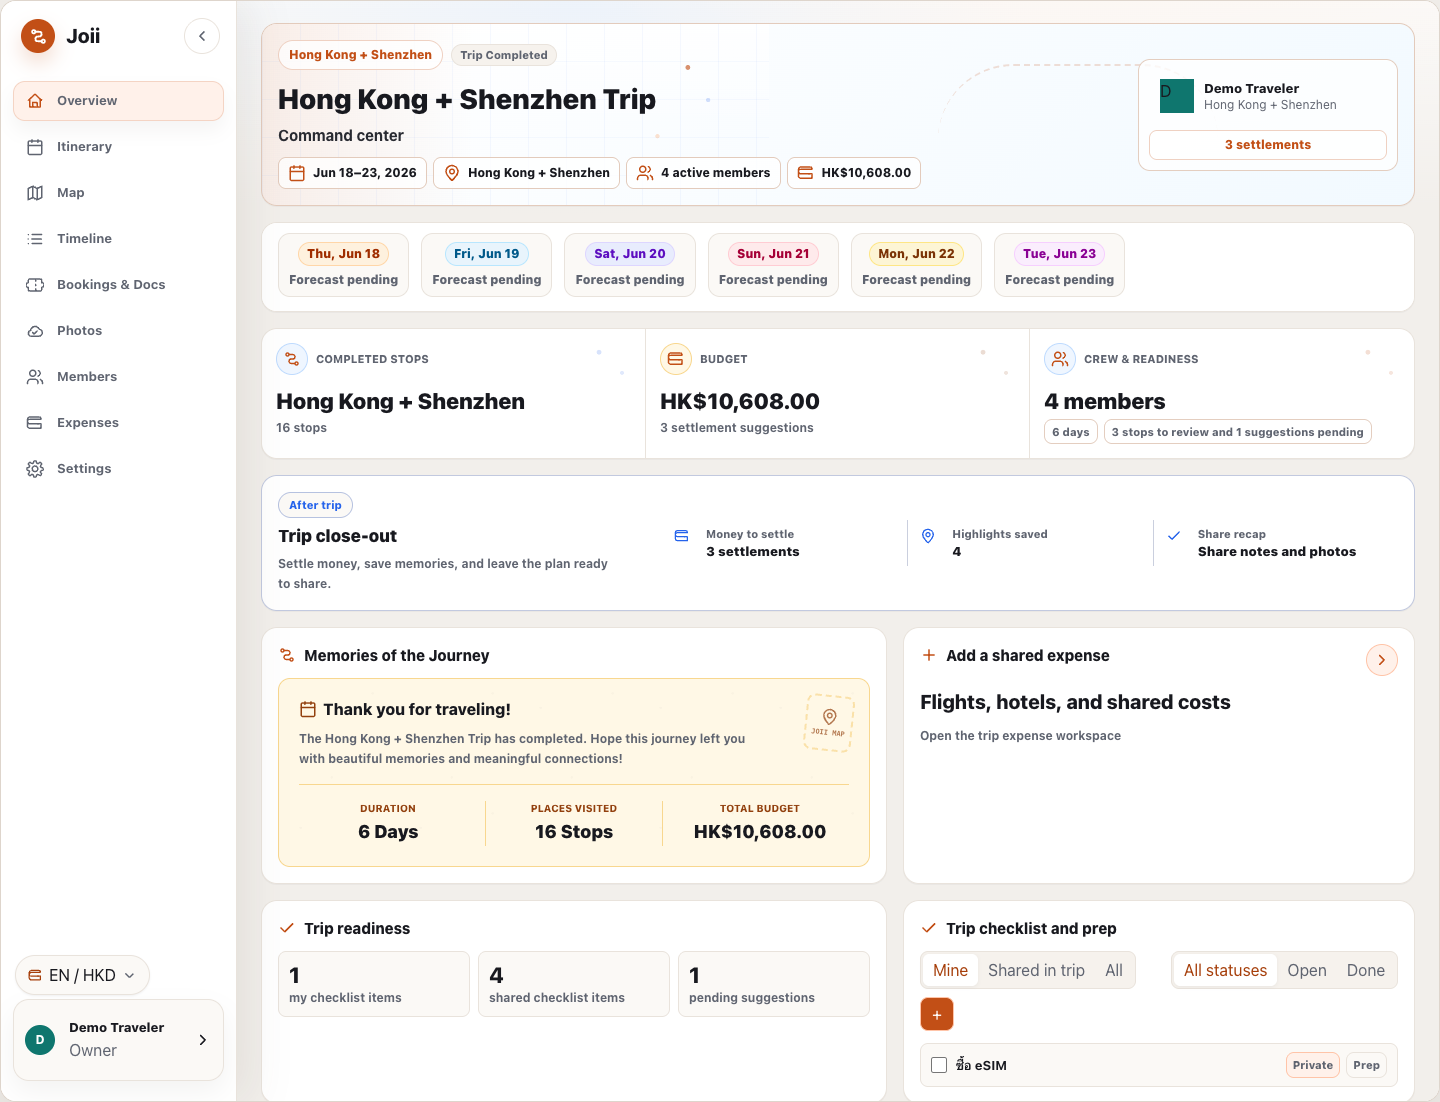
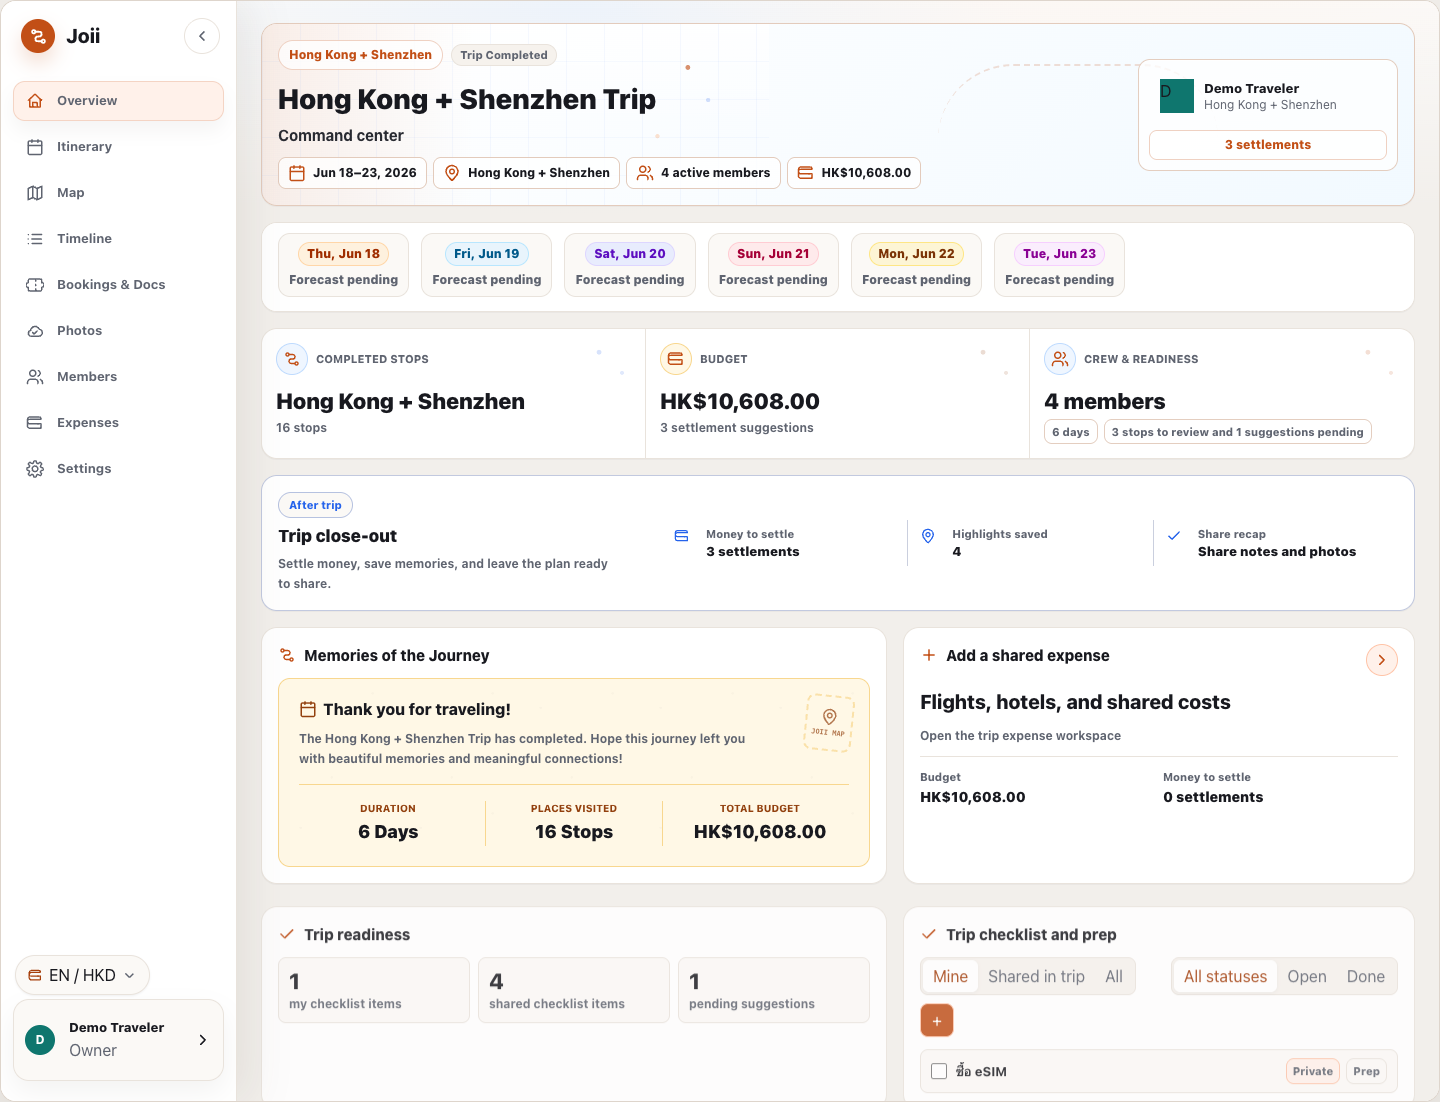
polish overview mobile command layout

diff --git a/frontend/src/features/itinerary/components/overview/ManagerAdminFollowupPanel.tsx b/frontend/src/features/itinerary/components/overview/ManagerAdminFollowupPanel.tsx
@@ -1,0 +1,68 @@
+import type { TripTask } from "@/src/trip/types";
+import { Icon } from "@/src/ui/icons";
+import { OverviewPanelTitle } from "./OverviewPanelTitle";
+import {
+  overviewAdminFollowupClassName,
+  overviewAdminFollowupMetricClassName,
+  overviewAdminFollowupTaskClassName,
+  overviewTaskAddButtonClassName,
+} from "./overview-page.styles";
+
+interface ManagerAdminFollowupPanelProps {
+  addChecklistLabel: string;
+  ariaLabel: string;
+  myChecklistLabel: string;
+  myOpenTasks: number;
+  onAddTask: () => void;
+  onToggleTask: (task: TripTask) => void;
+  pendingSuggestions: number;
+  pendingSuggestionsLabel: string;
+  sharedChecklistLabel: string;
+  sharedOpenTasks: number;
+  task?: TripTask;
+  title: string;
+}
+
+export function ManagerAdminFollowupPanel({
+  addChecklistLabel,
+  ariaLabel,
+  myChecklistLabel,
+  myOpenTasks,
+  onAddTask,
+  onToggleTask,
+  pendingSuggestions,
+  pendingSuggestionsLabel,
+  sharedChecklistLabel,
+  sharedOpenTasks,
+  task,
+  title,
+}: ManagerAdminFollowupPanelProps) {
+  return (
+    <section className={overviewAdminFollowupClassName} aria-label={ariaLabel}>
+      <div className="flex min-w-0 items-center justify-between gap-3">
+        <OverviewPanelTitle icon="check" title={title} />
+        <button
+          className={overviewTaskAddButtonClassName}
+          type="button"
+          aria-label={addChecklistLabel}
+          title={addChecklistLabel}
+          onClick={onAddTask}
+        >
+          <span aria-hidden="true">+</span>
+        </button>
+      </div>
+      <div className={overviewAdminFollowupMetricClassName}>
+        <span><strong>{myOpenTasks}</strong> {myChecklistLabel}</span>
+        <span><strong>{sharedOpenTasks}</strong> {sharedChecklistLabel}</span>
+        <span><strong>{pendingSuggestions}</strong> {pendingSuggestionsLabel}</span>
+      </div>
+      {task ? (
+        <label className={overviewAdminFollowupTaskClassName}>
+          <input type="checkbox" checked={task.status === "done"} onChange={() => onToggleTask(task)} />
+          <span>{task.title}</span>
+          <Icon name="chevronRight" className="size-4 text-(--color-text-muted)" />
+        </label>
+      ) : null}
+    </section>
+  );
+}

diff --git a/frontend/src/features/itinerary/components/overview/ManagerOverviewPanels.tsx b/frontend/src/features/itinerary/components/overview/ManagerOverviewPanels.tsx
@@ -1,5 +1,6 @@
 import { useI18n } from "@/src/i18n/I18nProvider";
 import { ManagerReadinessPanel } from "./ManagerReadinessPanel";
+import { ManagerAdminFollowupPanel } from "./ManagerAdminFollowupPanel";
 import { ManagerTaskChecklistPanel } from "./ManagerTaskChecklistPanel";
 import { OverviewExpenseShortcut } from "./OverviewExpenseShortcut";
 import { OverviewFocusSection } from "./OverviewFocusSection";
@@ -10,6 +11,7 @@ export function ManagerOverviewPanels({
   locale,
   items,
   groupSpendLabel,
+  expenseSettlementSuggestionsLabel,
   nextStop,
   nextDayItems,
   focusTodayHeading,
@@ -70,6 +72,22 @@ export function ManagerOverviewPanels({
       tripLabel={t.overview.filters.trip}
     />
   );
+  const mobileAdminFollowupPanel = (
+    <ManagerAdminFollowupPanel
+      addChecklistLabel={t.overview.headings.addChecklist}
+      ariaLabel="Mobile overview admin follow-up"
+      myChecklistLabel={t.overview.readiness.myChecklist}
+      myOpenTasks={myOpenTasks}
+      onAddTask={openTaskDialog}
+      onToggleTask={onToggleTask}
+      pendingSuggestions={pendingSuggestions}
+      pendingSuggestionsLabel={t.overview.readiness.pendingSuggestions}
+      sharedChecklistLabel={t.overview.readiness.sharedChecklist}
+      sharedOpenTasks={sharedOpenTasks}
+      task={visibleTasks[0]}
+      title={t.overview.headings.tripChecklist}
+    />
+  );
   const focusPanel = (
     <OverviewFocusSection
       ariaLabel={t.overview.sections.todayFocus}
@@ -93,6 +111,13 @@ export function ManagerOverviewPanels({
       title={t.overview.generalExpense}
       value={t.overview.money.generalExamples}
       detail={t.overview.money.generalDetail}
+      facts={[
+        { label: t.overview.cockpit.budget, value: groupSpendLabel },
+        {
+          label: t.overview.phase.completed.facts.settlements,
+          value: expenseSettlementSuggestionsLabel ?? t.overview.money.settlementsCount({ count: 0 }),
+        },
+      ]}
       ariaLabel={t.overview.generalExpense}
       onClick={openExpenses}
     />
@@ -103,8 +128,9 @@ export function ManagerOverviewPanels({
       <>
         {focusPanel}
         {expensePanel}
-        {readinessPanel}
-        {checklistPanel}
+        {mobileAdminFollowupPanel}
+        <div className="contents max-[767px]:hidden">{readinessPanel}</div>
+        <div className="contents max-[767px]:hidden">{checklistPanel}</div>
       </>
     );
   }

diff --git a/frontend/src/features/itinerary/components/overview/OverviewExpenseShortcut.tsx b/frontend/src/features/itinerary/components/overview/OverviewExpenseShortcut.tsx
@@ -1,12 +1,22 @@
 import { OverviewPanelTitle } from "./OverviewPanelTitle";
-import { overviewPanelButtonClassName, overviewPanelClassName } from "./overview-page.styles";
+import {
+  overviewExpenseFactsClassName,
+  overviewPanelButtonClassName,
+  overviewPanelClassName,
+} from "./overview-page.styles";
 import { Icon } from "@/src/ui/icons";
+
+interface ExpenseShortcutFact {
+  label: string;
+  value: string;
+}
 
 interface OverviewExpenseShortcutProps {
   icon: "wallet" | "plus";
   title: string;
   value: React.ReactNode;
   detail: string;
+  facts?: ExpenseShortcutFact[];
   onClick: () => void;
   ariaLabel?: string;
   titleId?: string;
@@ -17,6 +27,7 @@ export function OverviewExpenseShortcut({
   title,
   value,
   detail,
+  facts,
   onClick,
   ariaLabel,
   titleId,
@@ -36,6 +47,16 @@ export function OverviewExpenseShortcut({
       </div>
       <strong className="max-w-[24ch]">{value}</strong>
       <span className="max-w-[32ch]">{detail}</span>
+      {facts?.length ? (
+        <div className={overviewExpenseFactsClassName}>
+          {facts.map((fact) => (
+            <span key={fact.label}>
+              <small>{fact.label}</small>
+              <strong>{fact.value}</strong>
+            </span>
+          ))}
+        </div>
+      ) : null}
     </button>
   );
 }

diff --git a/frontend/src/features/itinerary/components/overview/overview-page.styles.ts b/frontend/src/features/itinerary/components/overview/overview-page.styles.ts
@@ -8,7 +8,7 @@ export const overviewSummaryBentoClassName =
 export const overviewWeatherBentoClassName =
   "overview-weather-bento col-span-12 min-w-0 overflow-hidden rounded-(--radius-lg) border border-(--color-border) bg-(--color-surface) shadow-[0_1px_0_rgb(15_23_42_/_0.04)] max-[1199px]:col-auto max-[1199px]:rounded-none max-[1199px]:border-x-0 max-[1199px]:shadow-none max-[767px]:rounded-(--radius-lg) max-[767px]:border max-[767px]:shadow-[0_1px_0_rgb(15_23_42_/_0.04)] [&_.weather-forecast-strip]:m-0 [&_.weather-forecast-strip]:w-full [&_.weather-forecast-strip]:rounded-none [&_.weather-forecast-strip]:border-0 [&_.weather-forecast-strip]:px-4 [&_.weather-forecast-strip]:py-2.5 [&_.weather-forecast-strip]:shadow-none max-[767px]:[&_.weather-forecast-strip]:px-2.5 max-[767px]:[&_.weather-forecast-row]:grid max-[767px]:[&_.weather-forecast-row]:grid-cols-3 max-[767px]:[&_.weather-forecast-row]:gap-2 max-[767px]:[&_.weather-forecast-row]:overflow-hidden max-[767px]:[&_.weather-forecast-segment]:w-auto max-[767px]:[&_.weather-forecast-segment]:min-w-0 max-[767px]:[&_.weather-forecast-segment:nth-child(n+4)]:hidden";
 export const overviewCockpitClassName =
-  "overview-travel-cockpit col-span-12 grid w-full min-w-0 max-w-full grid-cols-3 items-stretch overflow-hidden rounded-(--radius-lg) border border-(--color-border) bg-(--color-surface) shadow-[0_1px_0_rgb(15_23_42_/_0.04)] max-[1199px]:col-auto max-[1199px]:rounded-none max-[1199px]:border-x-0 max-[1199px]:shadow-none max-[767px]:grid-cols-2 max-[767px]:rounded-(--radius-lg) max-[767px]:border max-[767px]:shadow-[0_1px_0_rgb(15_23_42_/_0.04)] max-[767px]:[&_.overview-cockpit-card:nth-child(3)]:col-span-full";
+  "overview-travel-cockpit col-span-12 grid w-full min-w-0 max-w-full grid-cols-3 items-stretch overflow-hidden rounded-(--radius-lg) border border-(--color-border) bg-(--color-surface) shadow-[0_1px_0_rgb(15_23_42_/_0.04)] max-[1199px]:col-auto max-[1199px]:rounded-none max-[1199px]:border-x-0 max-[1199px]:shadow-none max-[767px]:grid-cols-2 max-[767px]:rounded-(--radius-lg) max-[767px]:border max-[767px]:shadow-[0_1px_0_rgb(15_23_42_/_0.04)] max-[767px]:[&_.overview-cockpit-card:first-child]:col-span-full";
 export const overviewPhaseCardClassName =
   "overview-phase-card col-span-12 grid min-w-0 grid-cols-[minmax(220px,0.9fr)_minmax(0,1.8fr)] items-center gap-4 overflow-hidden rounded-(--radius-lg) border border-[color-mix(in_srgb,var(--overview-phase-accent)_20%,var(--color-border))] bg-(--color-surface) p-4 shadow-[0_1px_0_rgb(15_23_42_/_0.04)] [--overview-phase-accent:var(--color-primary)] [--overview-phase-wash:var(--color-surface-subtle)] max-[1199px]:col-auto max-[1199px]:grid-cols-1 max-[1199px]:rounded-none max-[1199px]:border-x-0 max-[1199px]:shadow-none max-[767px]:gap-2.5 max-[767px]:rounded-(--radius-lg) max-[767px]:border max-[767px]:p-3.5 max-[767px]:shadow-[0_1px_0_rgb(15_23_42_/_0.04)]";
 export const overviewPhaseToneClassNames = {
@@ -21,7 +21,7 @@ export const overviewPhaseHeaderClassName =
 export const overviewPhaseFactListClassName =
   "overview-phase-facts m-0 grid list-none grid-cols-3 gap-0 p-0 max-[767px]:grid-cols-1 [&_li]:grid [&_li]:grid-cols-[24px_minmax(0,1fr)] [&_li]:items-start [&_li]:gap-2 [&_li]:border-l [&_li]:border-[color-mix(in_srgb,var(--overview-phase-accent)_16%,var(--color-border))] [&_li]:px-3 [&_li]:py-1.5 [&_li:first-child]:border-l-0 max-[767px]:[&_li]:grid-cols-[18px_minmax(0,1fr)] max-[767px]:[&_li]:border-l-0 max-[767px]:[&_li]:border-t max-[767px]:[&_li:first-child]:border-t-0 max-[767px]:[&_li]:px-0 max-[767px]:[&_li]:py-2 [&_.icon]:mt-0.5 [&_.icon]:size-[16px] [&_.icon]:text-(--overview-phase-accent) max-[767px]:[&_.icon]:size-[14px] [&_small]:block [&_small]:text-[11px] [&_small]:font-extrabold [&_small]:leading-4 [&_small]:text-(--color-text-muted) [&_strong]:block [&_strong]:min-w-0 [&_strong]:text-[13px] [&_strong]:font-black [&_strong]:leading-[18px] [&_strong]:text-(--color-text) [&_strong]:[overflow-wrap:anywhere]";
 export const overviewReadinessChipsClassName =
-  "overview-readiness-chips flex min-w-0 flex-wrap gap-1.5 [&_span]:min-w-0 [&_span]:rounded-(--radius-sm) [&_span]:border [&_span]:border-[color-mix(in_srgb,var(--color-primary)_14%,var(--color-border))] [&_span]:bg-[rgb(255_255_255_/_0.68)] [&_span]:px-[7px] [&_span]:py-1 [&_span]:text-[11px] [&_span]:font-extrabold [&_span]:leading-[15px] [&_span]:text-(--color-text-muted)";
+  "overview-readiness-chips flex min-w-0 flex-wrap gap-1.5 max-[767px]:gap-0 [&_span]:min-w-0 [&_span]:rounded-(--radius-sm) [&_span]:border [&_span]:border-[color-mix(in_srgb,var(--color-primary)_14%,var(--color-border))] [&_span]:bg-[rgb(255_255_255_/_0.68)] [&_span]:px-[7px] [&_span]:py-1 [&_span]:text-[11px] [&_span]:font-extrabold [&_span]:leading-[15px] [&_span]:text-(--color-text-muted) max-[767px]:[&_span:nth-child(n+2)]:hidden";
 
 export const modalBackdropClassName =
   "modal-backdrop fixed inset-0 z-20 grid place-items-center bg-[rgb(15_23_42_/_0.28)] p-5 max-[767px]:items-end max-[767px]:p-2.5";
@@ -37,13 +37,15 @@ export const taskDialogActionsClassName =
   "dialog-actions flex justify-end gap-2.5 border-t border-(--color-border) bg-(--color-surface-subtle) px-5 pb-[18px] pt-3.5 max-[767px]:grid [&_.button]:min-h-[38px] [&_.button]:min-w-[104px] [&_.button]:w-auto";
 
 export const overviewGridClassName =
-  "overview-grid m-0 grid w-full min-w-0 max-w-full grid-cols-[minmax(0,1.1fr)_minmax(320px,0.9fr)] gap-4 overflow-hidden max-[1199px]:grid-cols-1 max-[1199px]:gap-0 max-[767px]:gap-2 max-[767px]:overflow-visible";
+  "overview-grid m-0 grid w-full min-w-0 max-w-full grid-cols-[minmax(0,1.1fr)_minmax(320px,0.9fr)] gap-4 overflow-hidden max-[1199px]:grid-cols-1 max-[1199px]:gap-0 max-[767px]:gap-2 max-[767px]:overflow-visible max-[767px]:[&_.overview-panel--button]:order-first";
 export const overviewPanelClassName =
   `overview-panel grid min-h-36 min-w-0 max-w-full content-start gap-3 overflow-hidden rounded-(--radius-lg) border border-(--color-border) bg-(--color-surface) p-4 shadow-[0_1px_0_rgb(15_23_42_/_0.04)] ${workspaceResponsivePanelResetClassName} max-[767px]:min-h-0 max-[767px]:gap-2 max-[767px]:rounded-(--radius-lg) max-[767px]:border max-[767px]:border-(--color-border) max-[767px]:bg-(--color-surface) max-[767px]:p-3 max-[767px]:shadow-[0_1px_0_rgb(15_23_42_/_0.04)] [&>span]:text-xs [&>span]:font-bold [&>span]:text-(--color-text-muted) [&>strong]:text-xl [&>strong]:font-extrabold [&>strong]:leading-7 [&>strong]:text-(--color-text)`;
 export const overviewPanelWideClassName = "overview-panel--wide col-start-1 max-[1199px]:col-auto";
 export const overviewPanelHealthClassName = "overview-panel--health min-h-[132px]";
 export const overviewPanelButtonClassName =
   "overview-panel--button w-full cursor-pointer text-left text-inherit transition-[border-color,box-shadow,transform,background] duration-150 hover:-translate-y-px hover:border-(--color-primary) hover:bg-(--color-primary-soft) hover:shadow-[0_8px_18px_rgb(15_23_42_/_0.08)] focus-visible:-translate-y-px focus-visible:border-(--color-primary) focus-visible:shadow-[0_0_0_3px_rgb(15_118_110_/_0.16)] focus-visible:outline-none";
+export const overviewExpenseFactsClassName =
+  "overview-expense-facts mt-auto grid grid-cols-2 gap-2 border-t border-(--color-border) pt-3 max-[767px]:hidden [&_span]:grid [&_span]:gap-0.5 [&_small]:text-[11px] [&_small]:font-extrabold [&_small]:leading-4 [&_small]:text-(--color-text-muted) [&_strong]:min-w-0 [&_strong]:text-sm [&_strong]:font-black [&_strong]:leading-5 [&_strong]:text-(--color-text) [&_strong]:[overflow-wrap:anywhere]";
 export const overviewTaskPanelClassName =
   "overview-task-panel col-start-2 row-[1/span_2] min-h-0 self-start border-(--color-primary-border) max-[1199px]:col-auto max-[1199px]:row-auto";
 export const overviewPanelTitleClassName =
@@ -55,6 +57,12 @@ export const overviewTaskFiltersClassName = "overview-task-filters";
 export const overviewTaskFilterActiveClassName = "overview-task-filter--active";
 export const overviewTaskAddButtonClassName =
   "overview-task-add-button inline-flex min-h-[34px] w-[34px] flex-none items-center justify-center rounded-(--radius-sm) border border-(--color-primary-border) bg-(--color-primary) p-0 text-xl font-extrabold leading-none text-white transition-[background,border-color,box-shadow,transform] duration-200 hover:border-(--color-primary) hover:bg-(--color-primary-strong) hover:shadow-[0_8px_18px_rgb(194_79_22_/_0.18)] active:translate-y-px focus-visible:outline focus-visible:outline-3 focus-visible:outline-offset-2 focus-visible:outline-[rgb(191_219_254_/_0.72)]";
+export const overviewAdminFollowupClassName =
+  `${overviewPanelClassName} overview-admin-followup hidden max-[767px]:grid`;
+export const overviewAdminFollowupMetricClassName =
+  "overview-admin-followup-metrics grid grid-cols-3 gap-1.5 [&_span]:grid [&_span]:min-h-[46px] [&_span]:rounded-(--radius-sm) [&_span]:border [&_span]:border-(--color-border) [&_span]:bg-(--color-surface-subtle) [&_span]:p-2 [&_span]:text-[10px] [&_span]:font-bold [&_span]:leading-[13px] [&_span]:text-(--color-text-muted) [&_strong]:text-lg [&_strong]:font-black [&_strong]:leading-5 [&_strong]:text-(--color-text)";
+export const overviewAdminFollowupTaskClassName =
+  "overview-admin-followup-task grid min-h-11 cursor-pointer grid-cols-[auto_minmax(0,1fr)_auto] items-center gap-2.5 rounded-(--radius-sm) border border-(--color-border) bg-(--color-surface-subtle) px-2.5 py-2 text-[13px] font-bold text-(--color-text) [&_input]:size-4 [&_input]:accent-[var(--color-primary)] [&_span]:min-w-0 [&_span]:overflow-hidden [&_span]:text-ellipsis [&_span]:whitespace-nowrap";
 export const personalTaskFormClassName =
   "overview-task-form overview-task-form--personal grid grid-cols-[minmax(140px,1fr)_auto] items-end gap-2 [&_button]:min-h-[34px] [&_button]:rounded-(--radius-sm) [&_button]:border [&_button]:border-(--color-primary-border) [&_button]:bg-(--color-primary) [&_button]:px-3 [&_button]:text-xs [&_button]:font-extrabold [&_button]:text-white [&_button:disabled]:border-(--color-border) [&_button:disabled]:bg-(--color-surface-muted) [&_button:disabled]:text-(--color-text-subtle) [&_input]:min-h-[34px] [&_input]:w-full [&_input]:rounded-(--radius-sm) [&_input]:border [&_input]:border-(--color-border) [&_input]:bg-(--color-surface) [&_input]:px-2.5 [&_input]:text-xs [&_input]:font-bold [&_input]:text-(--color-text) [&_label]:grid [&_label]:min-w-0 [&_label]:gap-[5px] [&_label>span]:text-[11px] [&_label>span]:font-extrabold [&_label>span]:leading-[15px] [&_label>span]:text-(--color-text-muted) w-full max-[767px]:grid-cols-1 max-[767px]:[&_button]:w-full";
 

diff --git a/frontend/src/features/itinerary/components/overview/overview.styles.ts b/frontend/src/features/itinerary/components/overview/overview.styles.ts
@@ -24,7 +24,7 @@ export const overviewNextStopClassName =
   "overview-next-stop grid gap-[5px] [&_p]:m-0 [&_p]:mt-1 [&_p]:text-[13px] [&_p]:leading-5 [&_p]:text-(--color-text-muted) [&_span]:text-xs [&_span]:font-bold [&_span]:text-(--color-text-muted) [&_strong]:text-xl [&_strong]:font-extrabold [&_strong]:leading-7 [&_strong]:text-(--color-text)";
 
 export const overviewHeroBaseClassName =
-  "overview-hero relative col-span-12 grid min-h-[126px] min-w-0 max-w-full grid-cols-[minmax(0,1fr)_minmax(220px,260px)] items-center gap-4 overflow-hidden rounded-(--radius-lg) border border-[color-mix(in_srgb,var(--overview-hero-accent)_16%,var(--color-border))] bg-[linear-gradient(135deg,var(--color-surface)_0%,color-mix(in_srgb,var(--overview-hero-sky)_62%,white)_100%)] p-4 shadow-[0_1px_0_rgb(15_23_42_/_0.04)] [--overview-hero-accent:var(--color-primary)] [--overview-hero-ground:#f7d9b8] [--overview-hero-horizon:#8bd3e6] [--overview-hero-ink:#18191f] [--overview-hero-sky:#eaf6ff] before:pointer-events-none before:absolute before:inset-y-0 before:right-0 before:w-[44%] before:bg-[linear-gradient(90deg,transparent,rgba(255,255,255,0.65))] max-[1199px]:col-auto max-[1199px]:mb-0 max-[1199px]:grid-cols-1 max-[1199px]:gap-2 max-[1199px]:rounded-none max-[1199px]:border-x-0 max-[1199px]:border-t-0 max-[1199px]:p-4 max-[1199px]:shadow-none max-[767px]:min-h-0 max-[767px]:rounded-(--radius-lg) max-[767px]:border max-[767px]:p-3.5 max-[767px]:shadow-[0_1px_0_rgb(15_23_42_/_0.04)] max-[767px]:before:hidden";
+  "overview-hero relative col-span-12 grid min-h-[126px] min-w-0 max-w-full grid-cols-[minmax(0,1fr)_minmax(220px,260px)] items-center gap-4 overflow-hidden rounded-(--radius-lg) border border-[color-mix(in_srgb,var(--overview-hero-accent)_16%,var(--color-border))] bg-[linear-gradient(135deg,var(--color-surface)_0%,color-mix(in_srgb,var(--overview-hero-sky)_62%,white)_100%)] p-4 shadow-[0_1px_0_rgb(15_23_42_/_0.04)] [--overview-hero-accent:var(--color-primary)] [--overview-hero-ground:#f7d9b8] [--overview-hero-horizon:#8bd3e6] [--overview-hero-ink:#18191f] [--overview-hero-sky:#eaf6ff] before:pointer-events-none before:absolute before:inset-y-0 before:right-0 before:w-[44%] before:bg-[linear-gradient(90deg,transparent,rgba(255,255,255,0.65))] max-[1199px]:col-auto max-[1199px]:mb-0 max-[1199px]:grid-cols-1 max-[1199px]:gap-2 max-[1199px]:rounded-none max-[1199px]:border-x-0 max-[1199px]:border-t-0 max-[1199px]:p-4 max-[1199px]:shadow-none max-[767px]:min-h-0 max-[767px]:gap-2 max-[767px]:rounded-(--radius-lg) max-[767px]:border max-[767px]:p-3.5 max-[767px]:shadow-[0_1px_0_rgb(15_23_42_/_0.04)] max-[767px]:before:hidden";
 
 export const overviewHeroToneClassNames: Record<DestinationTone, string> = {
   harbor: "[--overview-hero-accent:var(--color-primary)] [--overview-hero-ground:#d6f2ef] [--overview-hero-horizon:#4fb8cc] [--overview-hero-sky:#e8f8ff]",
@@ -36,20 +36,20 @@ export const overviewHeroToneClassNames: Record<DestinationTone, string> = {
 export const overviewHeroCopyClassName = "overview-hero-copy relative z-[2] grid min-w-0 max-w-[760px] content-center gap-2";
 export const overviewHeroKickerClassName = "overview-hero-kicker w-fit max-w-full overflow-hidden rounded-full border border-[color-mix(in_srgb,var(--overview-hero-accent)_26%,white)] bg-[rgb(255_255_255_/_0.78)] px-2.5 py-1.5 text-xs font-[850] leading-4 text-(--overview-hero-accent) text-ellipsis whitespace-nowrap";
 export const overviewHeroTitleClassName = "m-0 text-[28px] font-[900] leading-[34px] text-(--overview-hero-ink) max-[767px]:hidden";
-export const overviewHeroRoleClassName = "overview-hero-role m-0 max-w-[620px] text-[15px] font-bold leading-[23px] text-[color-mix(in_srgb,var(--overview-hero-ink)_78%,var(--color-text-muted))] max-[767px]:text-[13px] max-[767px]:leading-5";
-export const overviewHeroMetaClassName = "overview-hero-meta mt-0.5 flex flex-wrap gap-1.5 max-[767px]:grid max-[767px]:grid-cols-1 [&_.icon]:text-(--overview-hero-accent) [&_span]:inline-flex [&_span]:min-h-8 [&_span]:min-w-0 [&_span]:max-w-full [&_span]:items-center [&_span]:gap-[7px] [&_span]:rounded-(--radius-sm) [&_span]:border [&_span]:border-[color-mix(in_srgb,var(--overview-hero-accent)_16%,var(--color-border))] [&_span]:bg-[rgb(255_255_255_/_0.78)] [&_span]:px-[9px] [&_span]:py-1.5 [&_span]:text-xs [&_span]:font-extrabold [&_span]:leading-4 [&_span]:text-(--color-text) max-[767px]:[&_span:nth-child(n+3)]:hidden max-[767px]:[&_span]:overflow-hidden max-[767px]:[&_span]:text-ellipsis max-[767px]:[&_span]:whitespace-nowrap";
+export const overviewHeroRoleClassName = "overview-hero-role m-0 max-w-[620px] text-[15px] font-bold leading-[23px] text-[color-mix(in_srgb,var(--overview-hero-ink)_78%,var(--color-text-muted))] max-[767px]:text-[13px] max-[767px]:leading-5 max-[767px]:hidden";
+export const overviewHeroMetaClassName = "overview-hero-meta mt-0.5 flex flex-wrap gap-1.5 max-[767px]:grid max-[767px]:grid-cols-2 max-[767px]:gap-1.5 [&_.icon]:text-(--overview-hero-accent) [&_span]:inline-flex [&_span]:min-h-8 [&_span]:min-w-0 [&_span]:max-w-full [&_span]:items-center [&_span]:gap-[7px] [&_span]:rounded-(--radius-sm) [&_span]:border [&_span]:border-[color-mix(in_srgb,var(--overview-hero-accent)_16%,var(--color-border))] [&_span]:bg-[rgb(255_255_255_/_0.78)] [&_span]:px-[9px] [&_span]:py-1.5 [&_span]:text-xs [&_span]:font-extrabold [&_span]:leading-4 [&_span]:text-(--color-text) max-[767px]:[&_span:nth-child(n+3)]:hidden max-[767px]:[&_span]:gap-1.5 max-[767px]:[&_span]:overflow-hidden max-[767px]:[&_span]:text-ellipsis max-[767px]:[&_span]:whitespace-nowrap max-[767px]:[&_span]:px-2 max-[767px]:[&_span]:text-[11px]";
 export const overviewHeroAsideClassName =
-  "overview-hero-aside relative z-[2] grid min-w-0 content-center gap-2 self-center rounded-(--radius-md) border border-[color-mix(in_srgb,var(--overview-hero-accent)_14%,var(--color-border))] bg-[rgb(255_255_255_/_0.76)] p-2.5 shadow-[inset_0_1px_0_rgb(255_255_255_/_0.78)] max-[1199px]:col-auto max-[1199px]:grid-cols-1 max-[1199px]:items-center max-[1199px]:rounded-none max-[1199px]:border-0 max-[1199px]:bg-transparent max-[1199px]:p-0 max-[1199px]:shadow-none [&_.page-current-user]:min-w-0 [&_.page-current-user]:w-full [&_.page-current-user]:border-transparent [&_.page-current-user]:bg-transparent [&_.page-current-user]:shadow-none";
+  "overview-hero-aside relative z-[2] grid min-w-0 content-center gap-2 self-center rounded-(--radius-md) border border-[color-mix(in_srgb,var(--overview-hero-accent)_14%,var(--color-border))] bg-[rgb(255_255_255_/_0.76)] p-2.5 shadow-[inset_0_1px_0_rgb(255_255_255_/_0.78)] max-[1199px]:col-auto max-[1199px]:grid-cols-1 max-[1199px]:items-center max-[1199px]:rounded-none max-[1199px]:border-0 max-[1199px]:bg-transparent max-[1199px]:p-0 max-[1199px]:shadow-none max-[767px]:gap-0 [&_.page-current-user]:min-w-0 [&_.page-current-user]:w-full [&_.page-current-user]:border-transparent [&_.page-current-user]:bg-transparent [&_.page-current-user]:shadow-none max-[767px]:[&_.page-current-user]:hidden";
 export const overviewHeroSettlementsClassName = "overview-hero-settlements justify-self-stretch rounded-(--radius-sm) border border-[color-mix(in_srgb,var(--overview-hero-accent)_26%,white)] bg-[rgb(255_255_255_/_0.82)] px-2.5 py-1.5 text-center text-xs font-[850] leading-4 text-(--overview-hero-accent)";
 
 export const cockpitCardBaseClassName =
-  `overview-cockpit-card relative grid min-h-[96px] min-w-0 content-start gap-2 overflow-hidden border-r border-(--color-border) bg-transparent p-3.5 text-left text-inherit last:border-r-0 [--overview-cockpit-accent:var(--color-primary)] [--overview-cockpit-wash:var(--color-surface-subtle)] ${workspaceResponsivePanelResetClassName} max-[767px]:min-h-[92px] max-[767px]:border-b max-[767px]:p-3 max-[767px]:[&:nth-child(2)]:border-r-0 max-[767px]:last:border-b-0 [&_small]:min-w-0 [&_small]:text-xs [&_small]:font-bold [&_small]:leading-[17px] [&_small]:text-(--color-text-muted) [&_strong]:min-w-0 [&_strong]:text-[22px] [&_strong]:font-black [&_strong]:leading-7 [&_strong]:text-(--color-text)`;
+  `overview-cockpit-card relative grid min-h-[96px] min-w-0 content-start gap-2 overflow-hidden border-r border-(--color-border) bg-transparent p-3.5 text-left text-inherit last:border-r-0 [--overview-cockpit-accent:var(--color-primary)] [--overview-cockpit-wash:var(--color-surface-subtle)] ${workspaceResponsivePanelResetClassName} max-[767px]:min-h-[86px] max-[767px]:border-b max-[767px]:p-3 max-[767px]:[&:nth-child(2)]:border-r-0 max-[767px]:last:border-b-0 [&_small]:min-w-0 [&_small]:text-xs [&_small]:font-bold [&_small]:leading-[17px] [&_small]:text-(--color-text-muted) [&_strong]:min-w-0 [&_strong]:text-[22px] [&_strong]:font-black [&_strong]:leading-7 [&_strong]:text-(--color-text)`;
 export const cockpitCardButtonClassName = "overview-cockpit-card--button cursor-pointer transition-[background,box-shadow] duration-150 hover:bg-(--overview-cockpit-wash) focus-visible:bg-(--overview-cockpit-wash) focus-visible:shadow-[inset_0_0_0_2px_color-mix(in_srgb,var(--overview-cockpit-accent)_28%,transparent)] focus-visible:outline-none";
 
 export const overviewHighlightBoardClassName =
-  `overview-highlight-board col-span-12 min-w-0 max-w-full overflow-hidden rounded-(--radius-lg) border border-(--color-border) bg-(--color-surface) p-3 shadow-[0_1px_0_rgb(15_23_42_/_0.04)] max-[1199px]:col-auto max-[1199px]:mb-0 ${workspaceResponsivePanelResetClassName} max-[767px]:rounded-(--radius-lg) max-[767px]:border max-[767px]:bg-(--color-surface) max-[767px]:shadow-[0_1px_0_rgb(15_23_42_/_0.04)]`;
+  `overview-highlight-board col-span-12 min-w-0 max-w-full overflow-hidden rounded-(--radius-lg) border border-(--color-border) bg-(--color-surface) p-3 shadow-[0_1px_0_rgb(15_23_42_/_0.04)] max-[1199px]:col-auto max-[1199px]:mb-0 ${workspaceResponsivePanelResetClassName} max-[767px]:rounded-none max-[767px]:border-0 max-[767px]:bg-transparent max-[767px]:p-0 max-[767px]:shadow-none`;
 export const overviewBoardTitleClassName =
-  "overview-board-title mb-2.5 flex items-center gap-[9px] text-(--color-text) [&_.icon]:text-(--color-primary) [&_h2]:m-0 [&_h2]:text-[15px] [&_h2]:font-black [&_h2]:leading-[22px] [&_p]:m-0 [&_p]:text-xs [&_p]:font-bold [&_p]:leading-[17px] [&_p]:text-(--color-text-muted)";
+  "overview-board-title mb-2.5 flex items-center gap-[9px] text-(--color-text) max-[767px]:mb-2 max-[767px]:px-1 [&_.icon]:text-(--color-primary) [&_h2]:m-0 [&_h2]:text-[15px] [&_h2]:font-black [&_h2]:leading-[22px] [&_p]:m-0 [&_p]:text-xs [&_p]:font-bold [&_p]:leading-[17px] [&_p]:text-(--color-text-muted)";
 export const overviewHighlightListClassName =
   "overview-highlight-list m-0 grid list-none grid-cols-[repeat(4,minmax(150px,1fr))] gap-2.5 p-0 max-[1199px]:grid-cols-3 max-[767px]:flex max-[767px]:overflow-x-auto max-[767px]:overscroll-x-contain max-[767px]:pb-3.5 max-[767px]:snap-x max-[767px]:snap-mandatory max-[767px]:-mx-3 max-[767px]:px-3 [&::-webkit-scrollbar]:hidden";
 export const overviewHighlightItemClassName =

diff --git a/frontend/src/features/itinerary/components/overview/OverviewHighlightBoard.tsx b/frontend/src/features/itinerary/components/overview/OverviewHighlightBoard.tsx
@@ -54,7 +54,7 @@ export function HighlightBoard({
                 className={cn(
                   overviewHighlightItemClassName,
                   !imgUrl && overviewHighlightToneClassNames[highlightTone(item, index)],
-                  imgUrl && "border-(--color-border-strong) bg-(--color-text)",
+                  imgUrl && "border-(--color-border-strong) bg-(--color-text) [&_small]:!text-white/84 [&_span]:!text-white/86 [&_strong]:!text-white",
                   "group cursor-pointer transition-[border-color,box-shadow,transform] duration-150 hover:-translate-y-0.5 hover:border-(--color-primary-border)",
                 )}
                 key={item.id}
@@ -66,20 +66,20 @@ export function HighlightBoard({
                       alt={item.activity}
                       fill
                       sizes="(max-width: 767px) 240px, 25vw"
-                      className="absolute inset-0 w-full h-full object-cover opacity-78 transition-transform duration-500 group-hover:scale-105"
+                      className="absolute inset-0 h-full w-full object-cover opacity-78 transition-transform duration-500 group-hover:scale-105 max-[767px]:opacity-70"
                       priority={index === 0}
                       loading={index === 0 ? "eager" : undefined}
                     />
-                    <div className="absolute inset-0 z-[1] bg-[linear-gradient(180deg,rgb(15_23_42_/_0.04),rgb(15_23_42_/_0.72))]" />
+                    <div className="absolute inset-0 z-[1] bg-[linear-gradient(180deg,rgb(15_23_42_/_0.04),rgb(15_23_42_/_0.72))] max-[767px]:bg-[linear-gradient(180deg,rgb(15_23_42_/_0.06),rgb(15_23_42_/_0.36)_38%,rgb(15_23_42_/_0.88))]" />
                   </>
                 )}
-                <span className={cn("relative z-10 mb-1 text-[11px] font-bold uppercase tracking-normal", imgUrl ? "text-white/82" : "text-(--overview-highlight-accent)")}>
+                <span className={cn("relative z-10 mb-1 text-[11px] font-bold uppercase tracking-normal", imgUrl ? "text-white/86 [text-shadow:0_1px_2px_rgb(0_0_0_/_0.5)]" : "text-(--overview-highlight-accent)")}>
                   {formatOverviewStopSchedule(item, startDate, locale)}
                 </span>
-                <strong className={cn("relative z-10 mb-0.5 text-sm font-black leading-snug [overflow-wrap:anywhere]", imgUrl ? "text-white" : "text-(--color-text)")}>
+                <strong className={cn("relative z-10 mb-0.5 text-sm font-black leading-snug [overflow-wrap:anywhere]", imgUrl ? "text-white [text-shadow:0_1px_3px_rgb(0_0_0_/_0.6)]" : "text-(--color-text)")}>
                   {item.activity}
                 </strong>
-                <small className={cn("relative z-10 overflow-hidden text-ellipsis whitespace-nowrap text-[11px] font-bold", imgUrl ? "text-white/78" : "text-(--color-text-muted)")}>
+                <small className={cn("relative z-10 overflow-hidden text-ellipsis whitespace-nowrap text-[11px] font-bold", imgUrl ? "text-white/84 [text-shadow:0_1px_2px_rgb(0_0_0_/_0.5)]" : "text-(--color-text-muted)")}>
                   {item.place}
                 </small>
               </li>

diff --git a/frontend/src/shared/components/weather/WeatherForecastStrip.tsx b/frontend/src/shared/components/weather/WeatherForecastStrip.tsx
@@ -48,6 +48,10 @@ export function WeatherForecastStrip({ briefings, locale, selectedDate, onSelect
           const low = weather?.temperatureMinCelsius;
           const dayLabel = formatWeatherStripDayLabel(briefing.date, locale);
           const condition = weatherGraphicLabel(weather?.conditionCode);
+          const compactCondition =
+            condition === "Forecast pending"
+              ? locale === "th" ? "รอพยากรณ์" : "Pending"
+              : condition;
           const hasForecastTemps = typeof high === "number" && typeof low === "number";
           const hasWeatherIcon = Boolean(weather?.conditionCode && weather.conditionCode !== "unavailable");
           const temperatureLabel = hasForecastTemps ? `${formatWeatherTemp(high)} ${formatWeatherTemp(low)}` : "";
@@ -74,7 +78,12 @@ export function WeatherForecastStrip({ briefings, locale, selectedDate, onSelect
                   <span className={tempHighClassName}>{formatWeatherTemp(high)}</span>
                   <span className={tempLowClassName}>{formatWeatherTemp(low)}</span>
                 </span>
-              ) : <span className={pendingClassName}>{condition}</span>}
+              ) : (
+                <>
+                  <span className={`${pendingClassName} max-[767px]:hidden`}>{condition}</span>
+                  <span className={`${pendingClassName} hidden max-[767px]:inline`}>{compactCondition}</span>
+                </>
+              )}
               {sunrise && sunset ? <span className={solarClassName}>{sunrise} / {sunset}</span> : null}
             </button>
           );

diff --git a/frontend/src/features/itinerary/components/overview/OverviewLensPanels.tsx b/frontend/src/features/itinerary/components/overview/OverviewLensPanels.tsx
@@ -93,6 +93,7 @@ export function OverviewLensPanels({
           locale={locale}
           items={items}
           groupSpendLabel={groupSpendLabel}
+          expenseSettlementSuggestionsLabel={money.settlementSuggestions}
           nextStop={nextStop}
           nextDayItems={nextDayItems}
           focusTodayHeading={focusTodayHeading}
@@ -110,7 +111,6 @@ export function OverviewLensPanels({
           onTaskTitleChange={onTaskTitleChange}
           onSubmitTask={onSubmitTask}
           expenseNetLabel={expenseSummary.currentUserNetLabel}
-          expenseSettlementSuggestionsLabel={money.settlementSuggestions}
         />
       ) : null}
 

diff --git a/frontend/src/features/itinerary/components/overview/overview-role-panels.types.ts b/frontend/src/features/itinerary/components/overview/overview-role-panels.types.ts
@@ -16,6 +16,7 @@ interface OverviewChecklistPanelBaseProps {
   locale: Locale;
   items: ItineraryItem[];
   groupSpendLabel: string;
+  expenseSettlementSuggestionsLabel?: string;
   nextStop: ItineraryItem | undefined;
   nextDayItems: ItineraryItem[];
   focusTodayHeading: string;